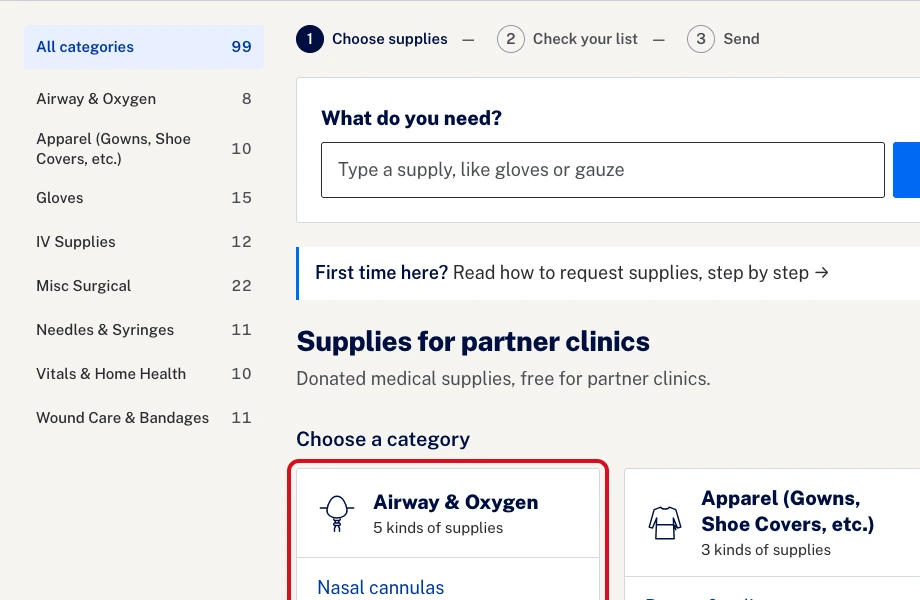
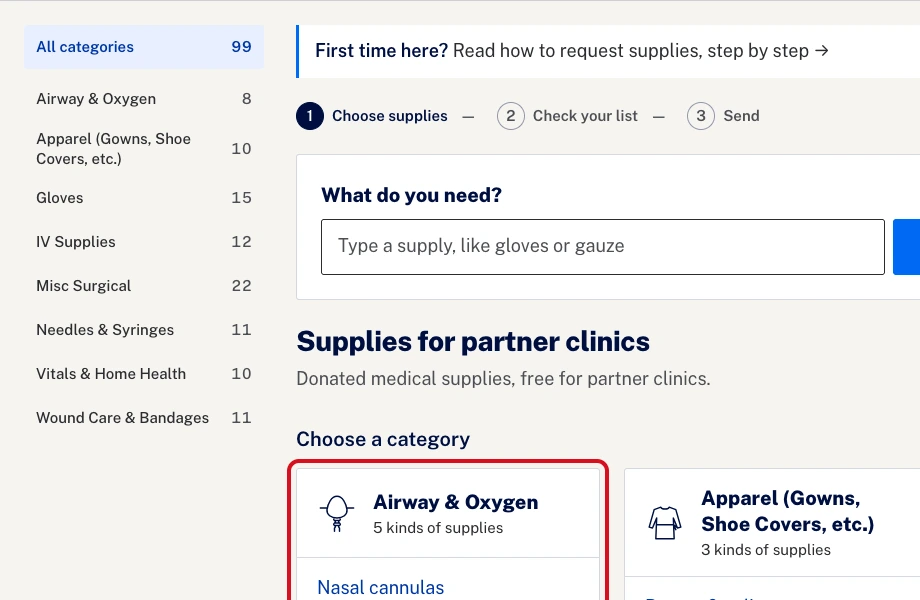
Put "First time here?" at the very top of the home page
It now sits above the step bar and the search box. The guide's home-page
screenshot is retaken to match.

diff --git a/my-dashboard/src/App.js b/my-dashboard/src/App.js
@@ -456,6 +456,13 @@ export default function App() {
           {inventory.status === 'done' && !inventory.fresh && !inventory.error && slow && (
             <p className="stale" role="status">Showing the list saved on this device while the server wakes up.</p>
           )}
+          {/* Home page only: the guide link comes first, above everything else. */}
+          {inventory.status === 'done' && base.view === 'catalog' && !searchView && (
+            <a className="landing__guide" href="#/how-it-works">
+              <strong>First time here?</strong> Read how to request supplies, step by step
+              <span aria-hidden="true"> →</span>
+            </a>
+          )}
           {/* One step bar on screen: the list drawer shows its own (step 2). */}
           {inventory.status === 'done' && route.view !== 'slip' && <Progress step={1} />}
           {inventory.status === 'done' && <SearchBar value={rawQuery} onChange={onQuery} />}

diff --git a/my-dashboard/src/components/Landing.js b/my-dashboard/src/components/Landing.js
@@ -5,15 +5,10 @@ const FIRST = 6;
 
 const kinds = (n) => `${n} ${n === 1 ? 'kind' : 'kinds'} of supplies`;
 
-// The home page: a link to the guide for first-timers, then one large tile per
-// category (A–Z). The tile's heading is a link to the whole category.
+// The home page: one large tile per category (A–Z). The tile's heading is a link to the whole category.
 function Landing({ catalog }) {
   return (
     <div className="landing">
-      <a className="landing__guide" href="#/how-it-works">
-        <strong>First time here?</strong> Read how to request supplies, step by step
-        <span aria-hidden="true"> →</span>
-      </a>
       <h1 className="page-title">Supplies for partner clinics</h1>
       <p className="lede">Donated medical supplies, free for partner clinics.</p>
 
